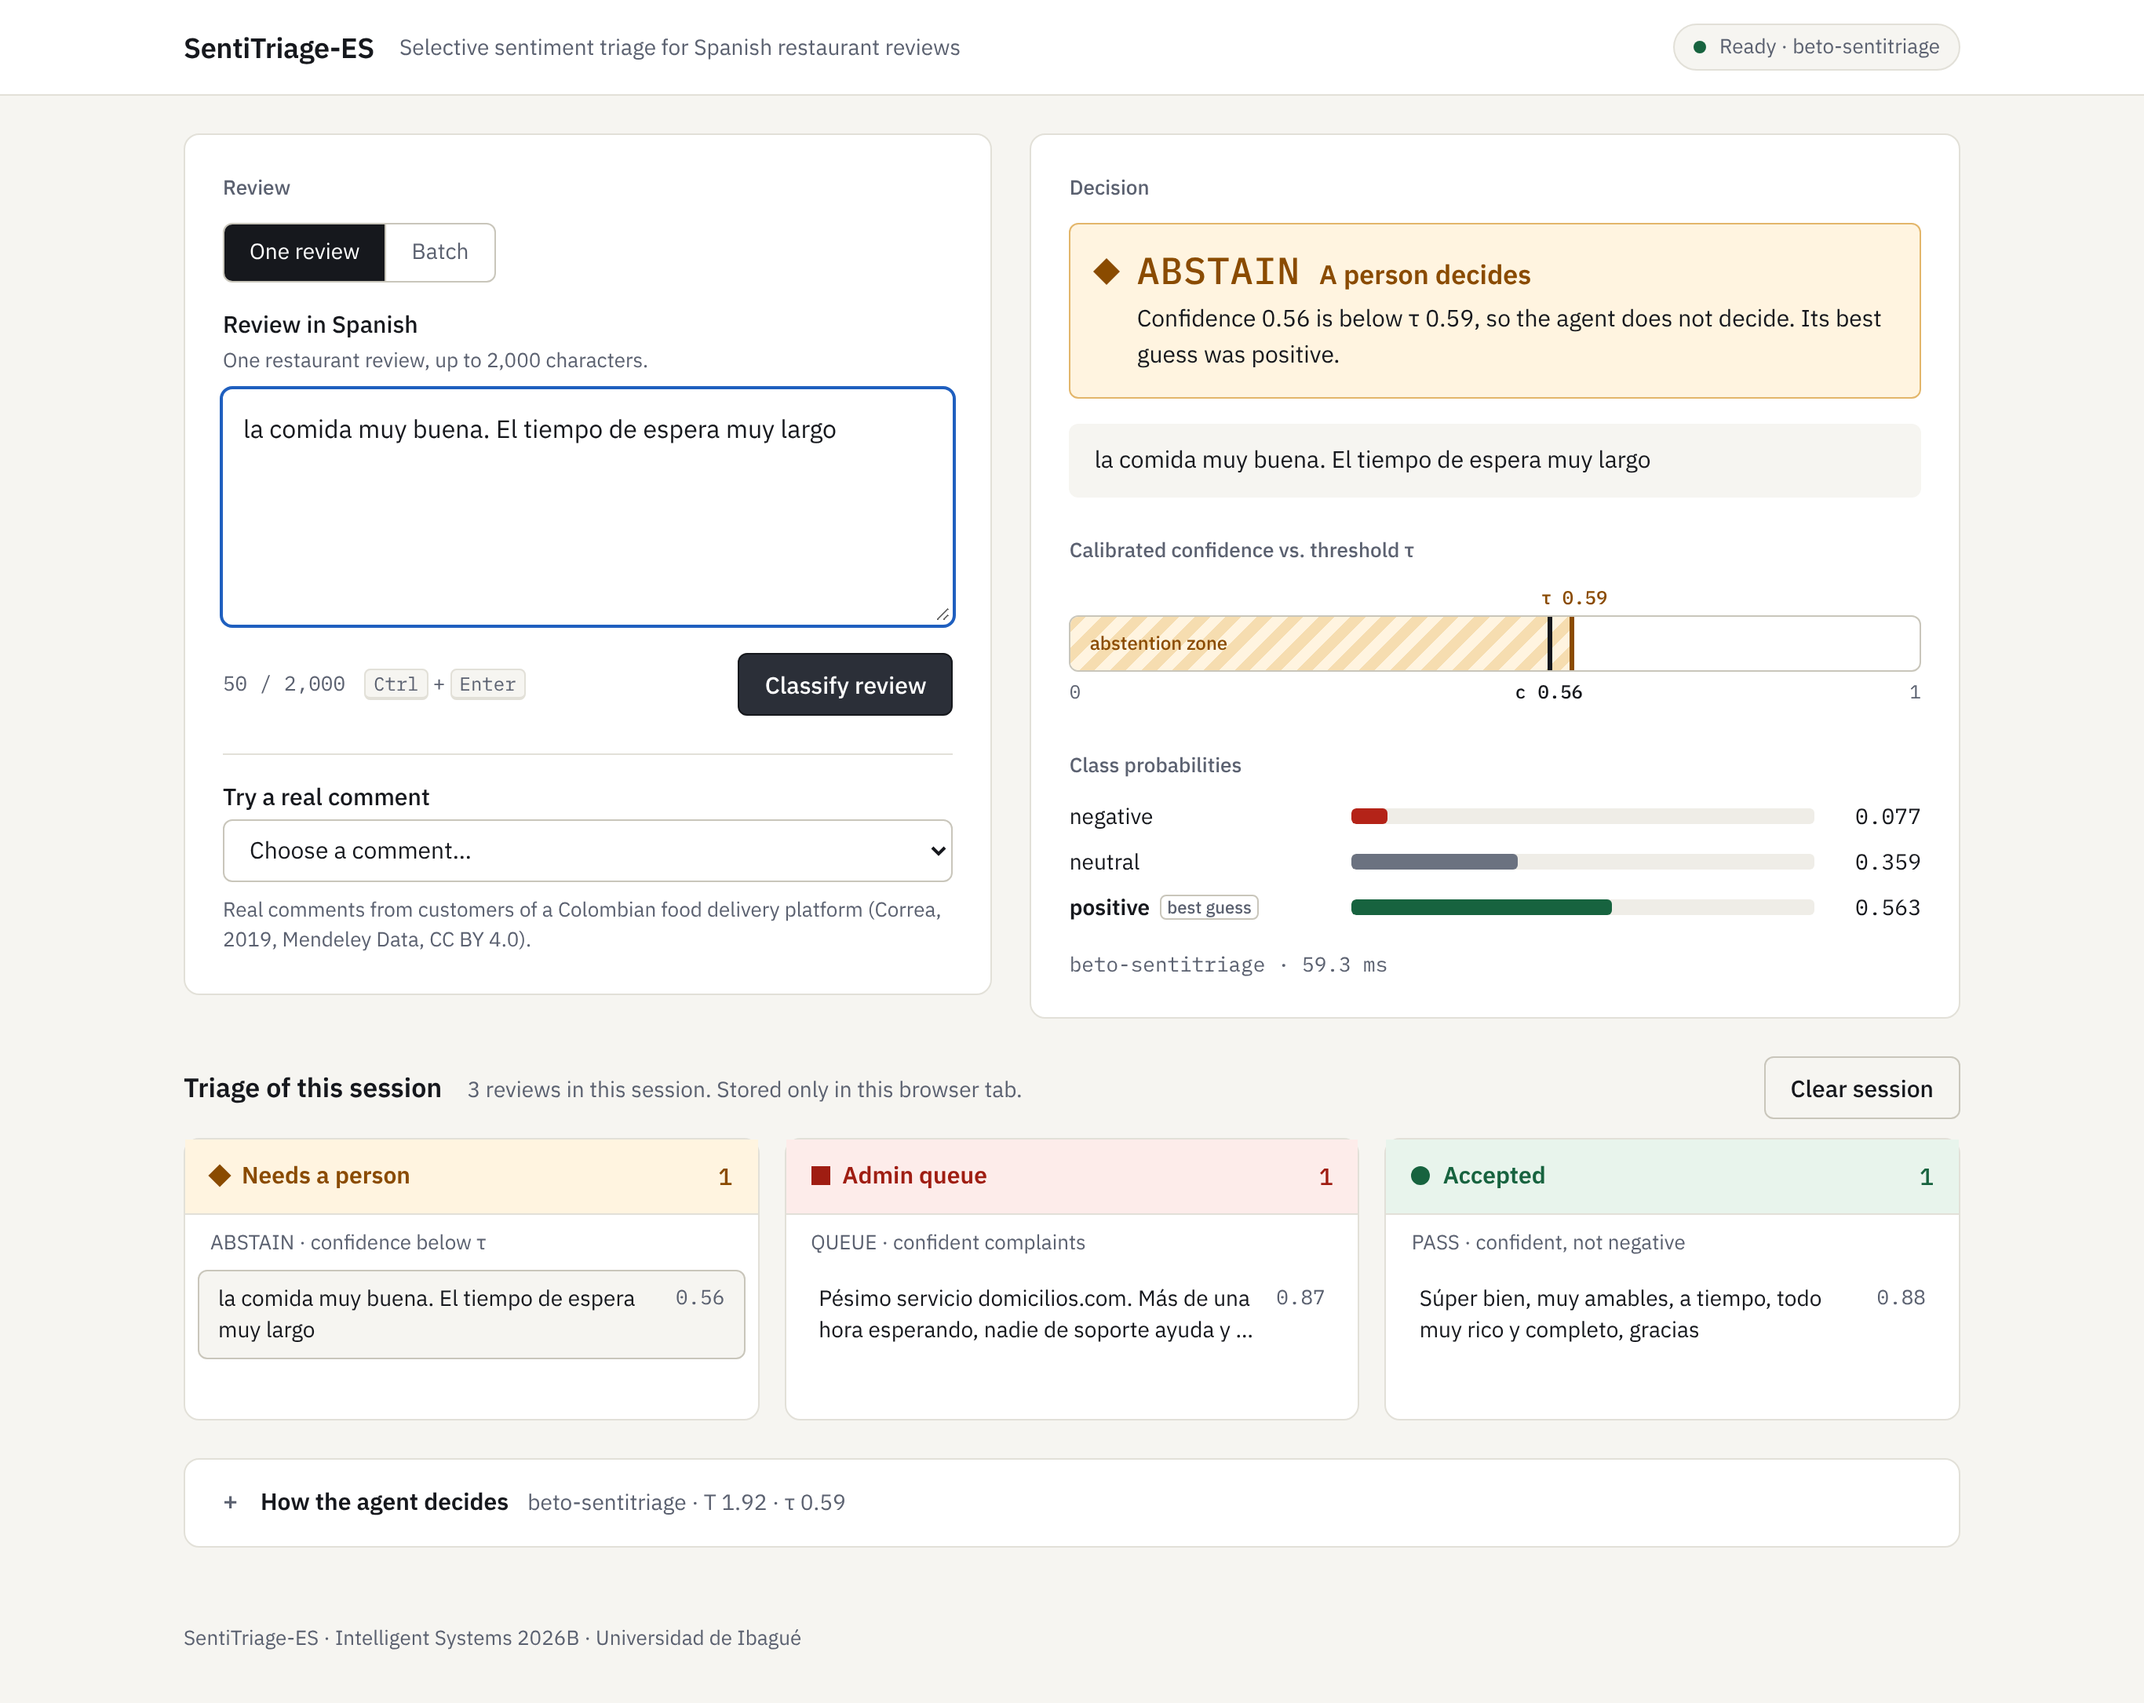
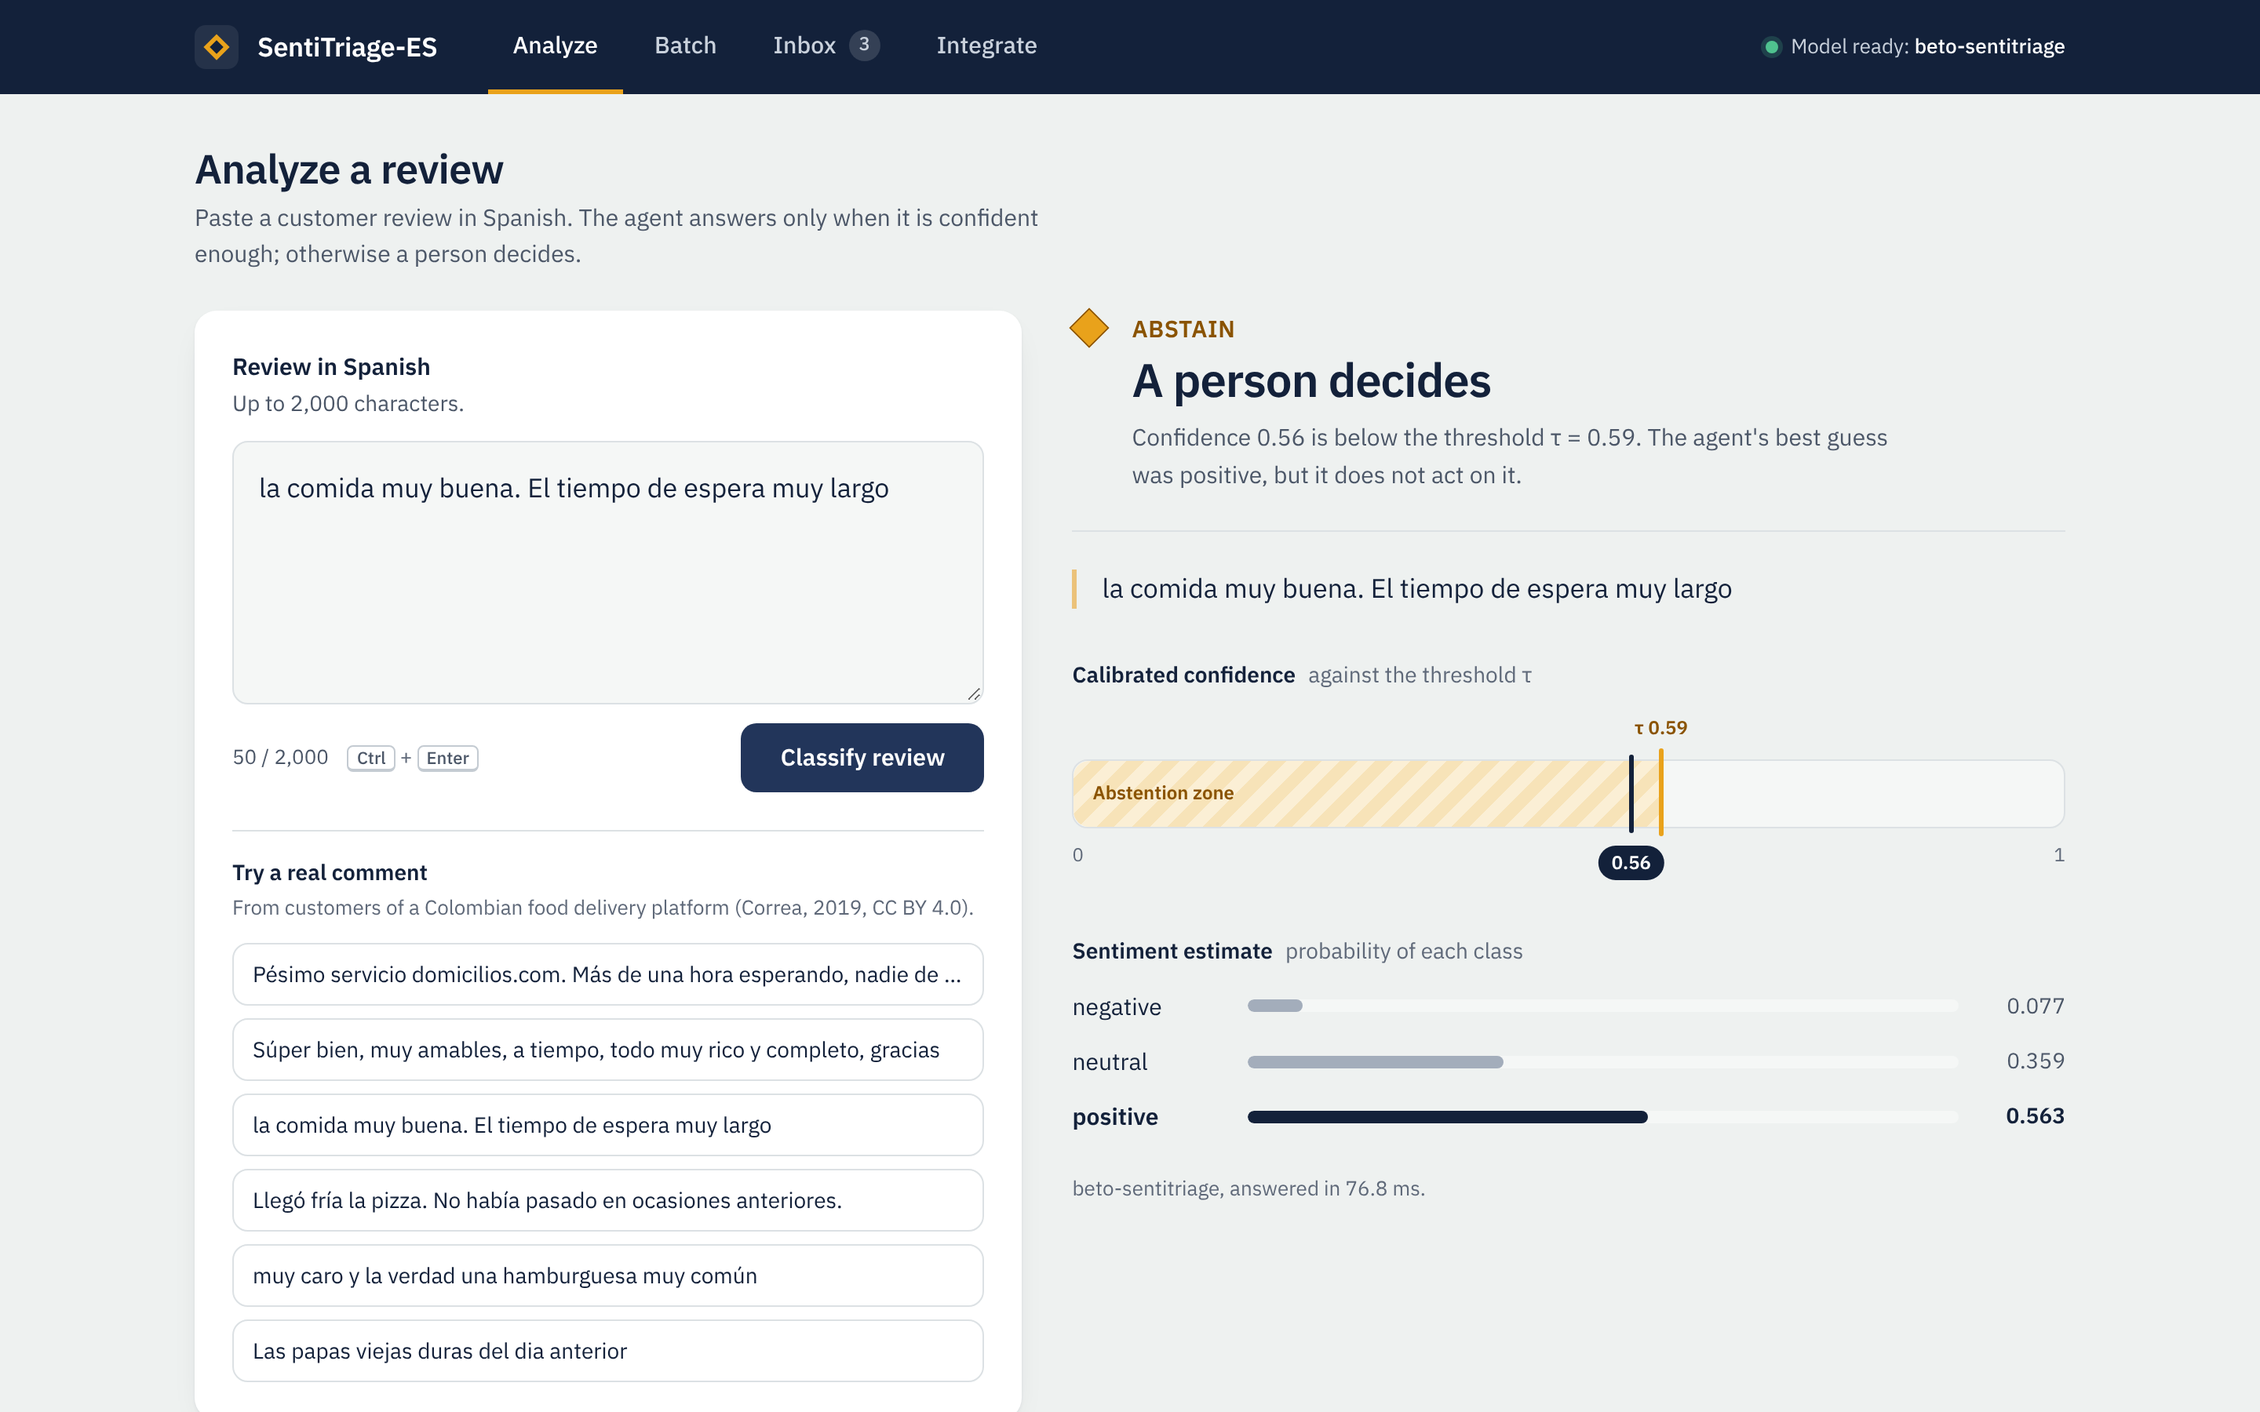
docs: sistema de diseño y capturas de la nueva interfaz

diff --git a/docs/DESIGN.md b/docs/DESIGN.md
@@ -1,0 +1,67 @@
+# SentiTriage-ES design system
+
+The interface has one job: show what the agent decided and why, so a person can trust it or
+take over. Its identity comes from the product's core idea: **the agent knows when not to
+decide**. The threshold τ is the signature element and owns the only accent color.
+
+## Principles
+
+1. **Decision first.** The verdict (action + plain-language title + reason) is the largest
+   element on screen. Probabilities and confidence support it; they never compete with it.
+2. **Decisions and sentiment never share a visual language.** Actions (PASS, QUEUE,
+   ABSTAIN) use color *and* shape. Sentiment classes (negative, neutral, positive) are what
+   the model believes, so they are drawn in ink: the best guess dark, the rest grey.
+3. **One accent.** Marigold marks the threshold τ and the abstention zone, and nothing else.
+4. **Real data only.** Every number on screen comes from the API (`/classify`,
+   `/classify/batch`, `/model`). The sample texts are real comments (Correa, 2019, CC BY 4.0).
+5. **Group by space, not by boxes.** Sheets hold inputs and tables; the decision sits on the
+   page background and is structured by type size and rules.
+
+## Tokens
+
+| Token | Value | Use |
+|---|---|---|
+| `--ink` | `#13213A` | Text, app bar, primary button, best-guess bar |
+| `--bg` | `#EEF1F0` | Page background (cool mist) |
+| `--surface` | `#FFFFFF` | Sheets, lanes, dialog |
+| `--accent` | `#E9A21B` | Threshold τ, abstention zone, ABSTAIN mark |
+| `--abstain` | `#8A5300` | ABSTAIN text (meets 4.5:1 on white) |
+| `--queue` | `#B2302A` | QUEUE mark and text |
+| `--pass` | `#1D6B52` | PASS mark and text |
+| `--sent-other` | `#A3ADBB` | Non-best sentiment bars |
+
+Spacing: 4, 8, 12, 16, 24, 32, 48, 64 px. Radius: 6 (controls inside sheets), 10 (inputs,
+buttons), 14 (sheets). Shadow: one soft shadow for sheets only.
+
+## Type
+
+IBM Plex Sans (400, 500, 600), served locally, with tabular figures everywhere.
+IBM Plex Mono only for code, endpoints and JSON. Scale: 13, 14, 15, 17, 22, 26, 30 px.
+Sentence case for all labels; no all-caps eyebrows. Action codes (PASS, QUEUE, ABSTAIN)
+keep their API spelling because they are identifiers.
+
+## Action marks
+
+| Action | Shape | Color | Meaning shown to users |
+|---|---|---|---|
+| ABSTAIN | Diamond | Marigold | Needs a person |
+| QUEUE | Square | Brick red | Complaint for the admin queue |
+| PASS | Circle | Green | Stored without review |
+
+Shape and text always accompany color, so the meaning survives color blindness and
+grayscale printing.
+
+## Information architecture
+
+Four views (Hick's law): **Analyze** (one review), **Batch** (many reviews, table, filters,
+CSV export of the results), **Inbox** (this session's decisions by action) and **Integrate**
+(API contract, code samples, last real response, model card from `/model`).
+
+## Interaction rules
+
+- Inline validation under the field, with the reason and how to fix it.
+- Skeleton loaders while the service answers; the confidence needle and bars animate once
+  to show the change. `prefers-reduced-motion` disables all motion.
+- `Ctrl + Enter` submits; every control is reachable by keyboard with a visible focus ring.
+- Errors say what happened and what to do ("Check that uvicorn is running on port 8000").
+- Responsive down to 360 px: one column, scrollable tabs, full-width primary button.

diff --git a/README.md b/README.md
@@ -138,7 +138,7 @@ notebooks/         BETO and XLM-R fine-tuning on Colab
 service/           FastAPI microservice and web demo (vanilla HTML/CSS/JS)
 results/           metrics, predictions and figures produced by the experiments
 data/colombia/     annotation sheets and labels for the Colombian sample
-docs/              architecture decision record and figures
+docs/              architecture decision record, design system (DESIGN.md) and figures
 tests/             unit, service and fine-tuning smoke tests
 ```
 
